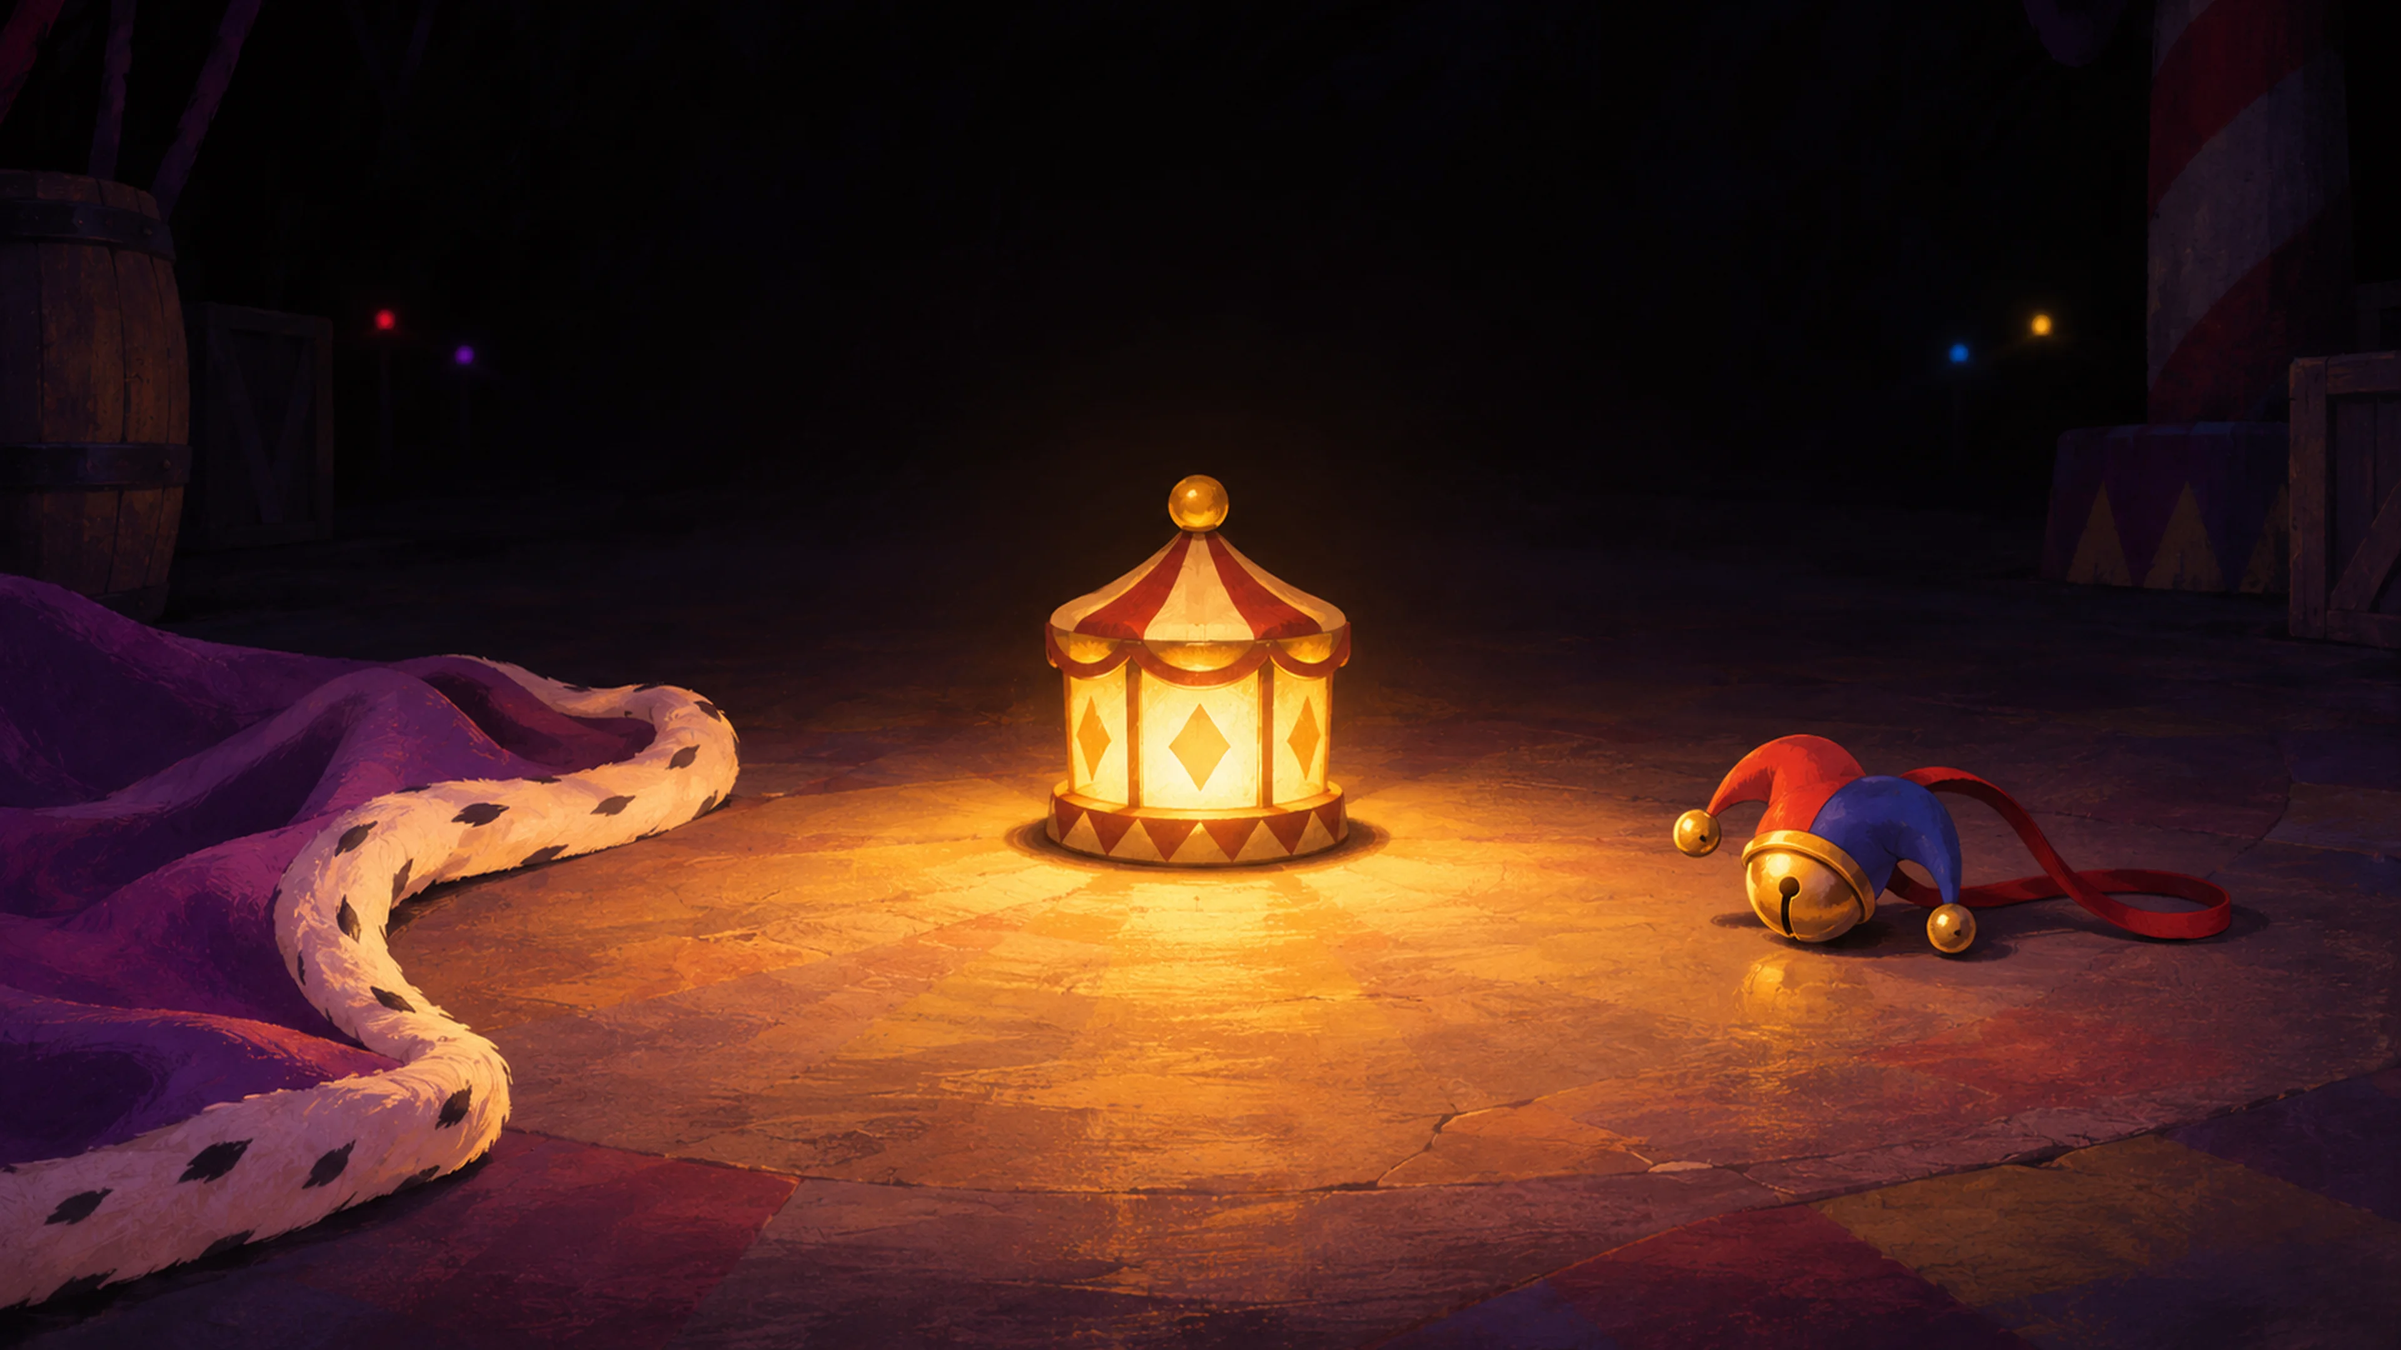
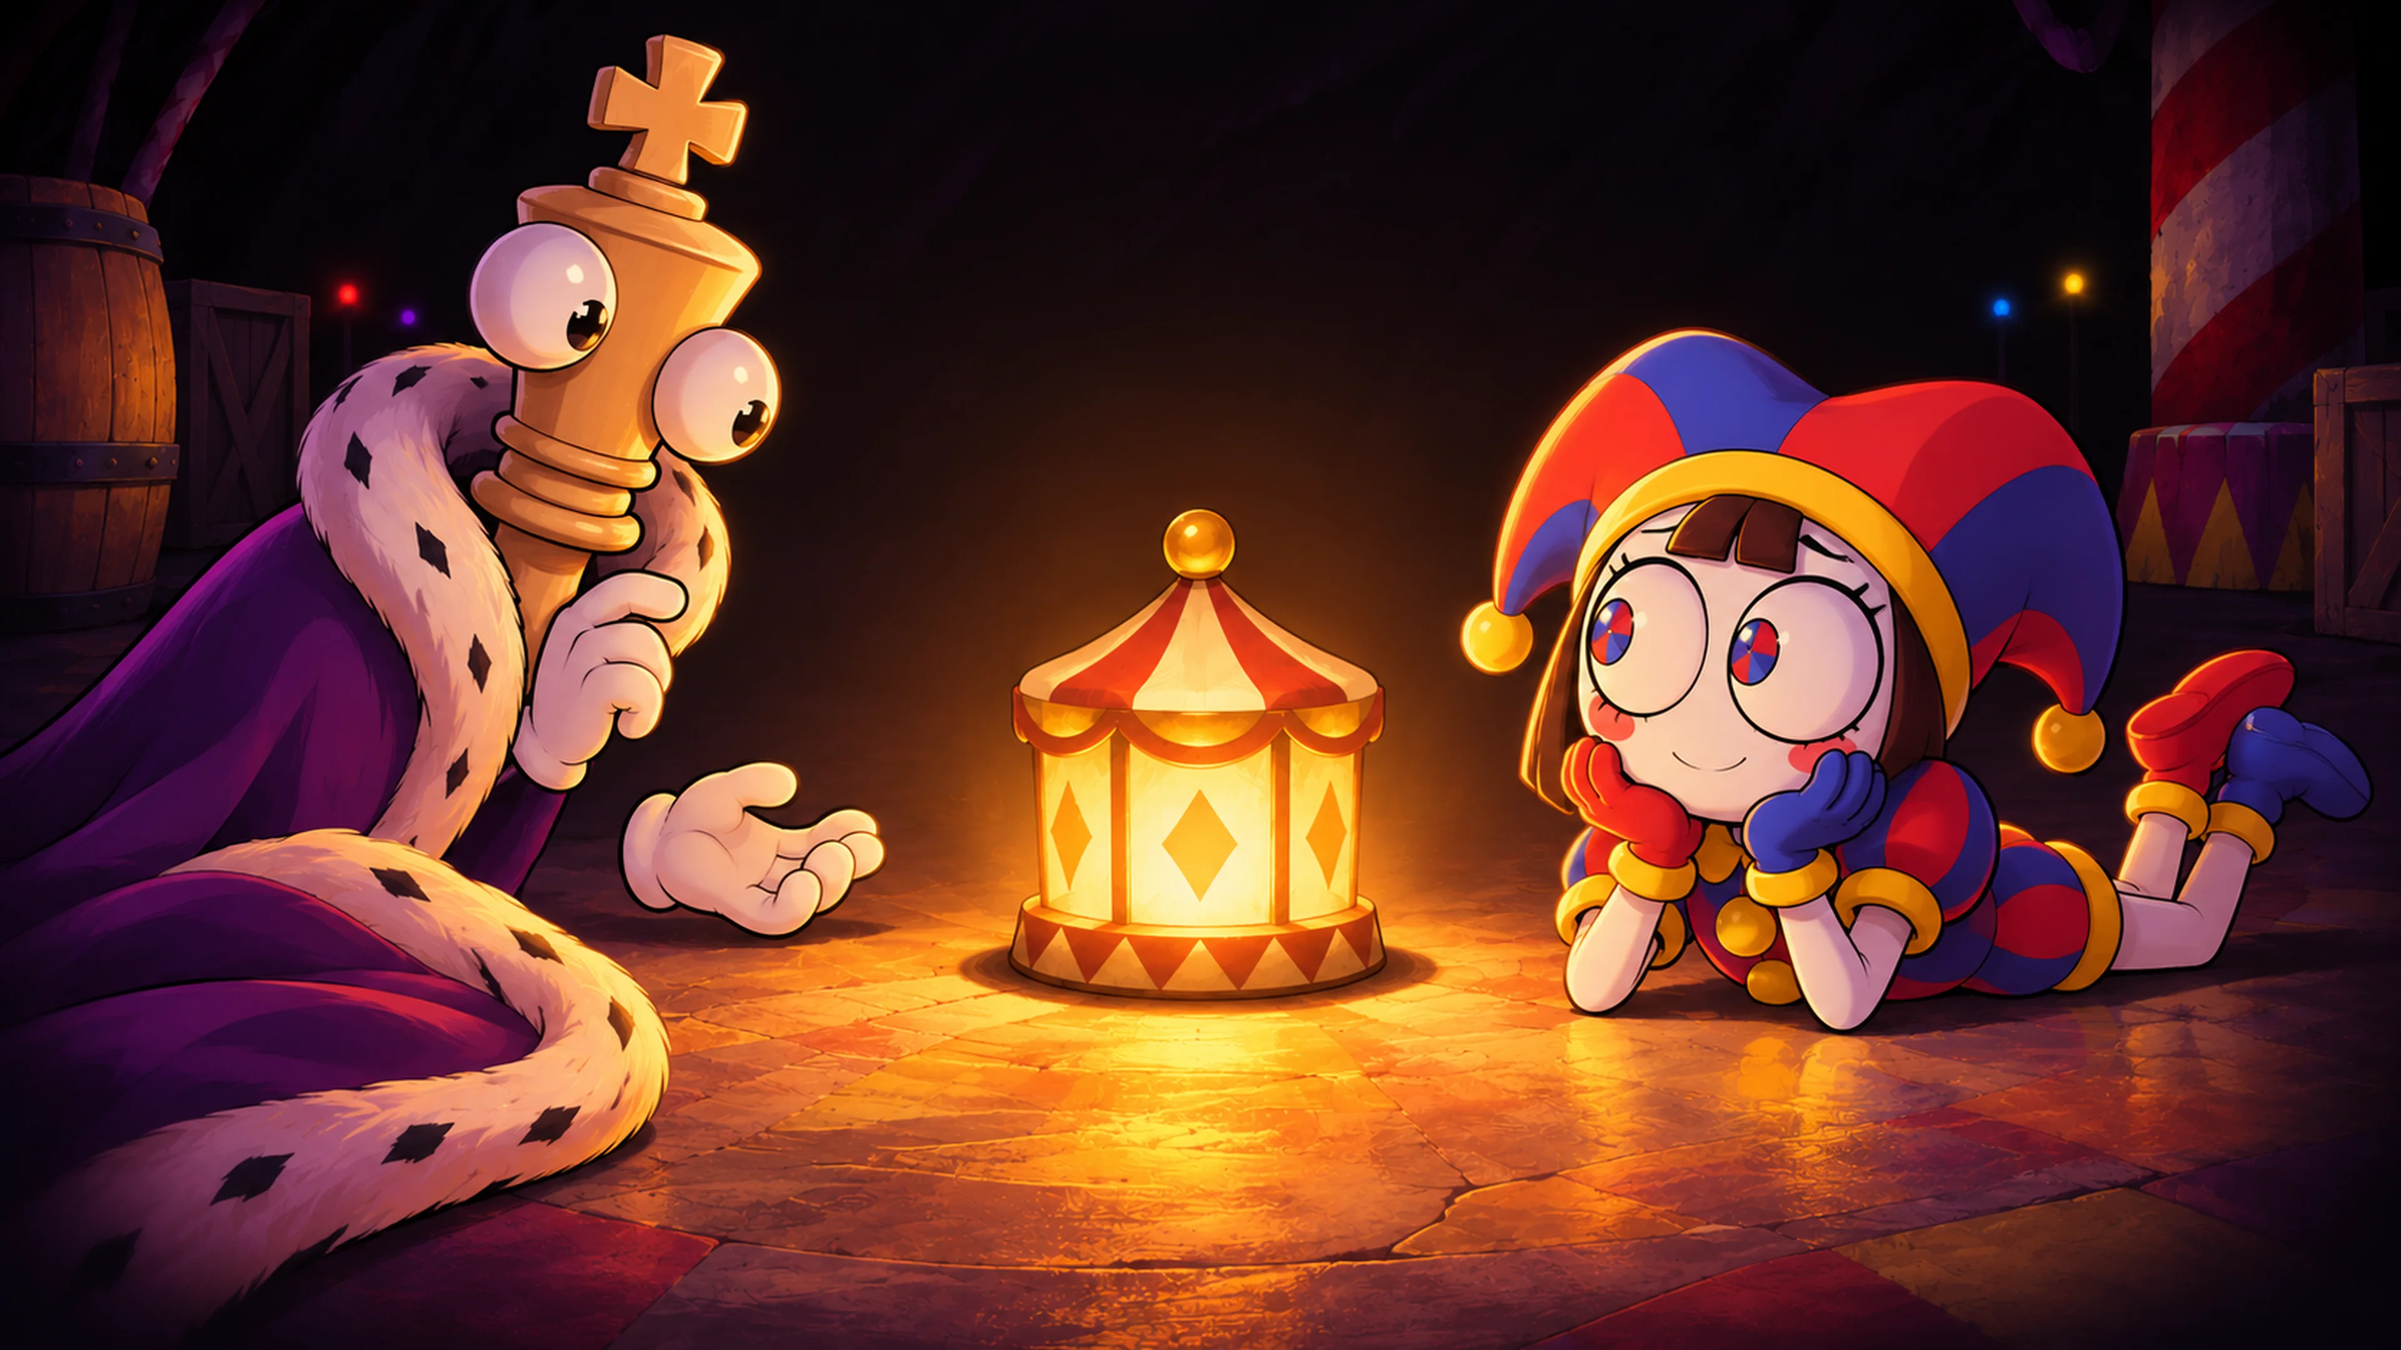
Finaliser les 168 illustrations, le cache hors ligne et la galerie vérifiée

diff --git a/docs/COMBAT_ILLUSTRATIONS.md b/docs/COMBAT_ILLUSTRATIONS.md
@@ -1,0 +1,40 @@
+# Digital Circus — Encore · Illustrations du mode Combat
+
+Le roster compte 14 combattants. Le lot du 18 novembre 2026 comprend **14 vues de sélection, 14 gardes de profil et 140 illustrations de campagne**. Chaque lien ouvre un fichier WebP individuel. Les numéros suivent l’ordre du lecteur de campagne.
+
+Aperçus du roster complet. [Vues de sélection](images/encore-selection.webp) · [Gardes de combat](images/encore-stance.webp) · [Pomni contre Jax en jeu](images/encore-duel.webp) · [Prologue de Pomni dans le lecteur](images/encore-campagne.webp)
+
+| Combattant | Campagne | Sélection | Garde | Prologue | Chapitres | Épilogue |
+| --- | --- | --- | --- | --- | --- | --- |
+| **Pomni** | Une sortie à sa mesure | [Sélection](../assets/encore/selection/pomni.webp) | [Garde](../assets/encore/stance/pomni.webp) | [1](../assets/encore/campaign/pomni/pomni-prologue-1.webp) · [2](../assets/encore/campaign/pomni/pomni-prologue-2.webp) · [3](../assets/encore/campaign/pomni/pomni-prologue-3.webp) | [1](../assets/encore/campaign/pomni/pomni-chapter-1.webp) · [2](../assets/encore/campaign/pomni/pomni-chapter-2.webp) · [3](../assets/encore/campaign/pomni/pomni-chapter-3.webp) · [4](../assets/encore/campaign/pomni/pomni-chapter-4.webp) | [1](../assets/encore/campaign/pomni/pomni-epilogue-1.webp) · [2](../assets/encore/campaign/pomni/pomni-epilogue-2.webp) · [3](../assets/encore/campaign/pomni/pomni-epilogue-3.webp) |
+| **Jax** | Le gag de trop | [Sélection](../assets/encore/selection/jax.webp) | [Garde](../assets/encore/stance/jax.webp) | [1](../assets/encore/campaign/jax/jax-prologue-1.webp) · [2](../assets/encore/campaign/jax/jax-prologue-2.webp) · [3](../assets/encore/campaign/jax/jax-prologue-3.webp) | [1](../assets/encore/campaign/jax/jax-chapter-1.webp) · [2](../assets/encore/campaign/jax/jax-chapter-2.webp) · [3](../assets/encore/campaign/jax/jax-chapter-3.webp) · [4](../assets/encore/campaign/jax/jax-chapter-4.webp) | [1](../assets/encore/campaign/jax/jax-epilogue-1.webp) · [2](../assets/encore/campaign/jax/jax-epilogue-2.webp) · [3](../assets/encore/campaign/jax/jax-epilogue-3.webp) |
+| **Ragatha** | Le fil du spectacle | [Sélection](../assets/encore/selection/ragatha.webp) | [Garde](../assets/encore/stance/ragatha.webp) | [1](../assets/encore/campaign/ragatha/ragatha-prologue-1.webp) · [2](../assets/encore/campaign/ragatha/ragatha-prologue-2.webp) · [3](../assets/encore/campaign/ragatha/ragatha-prologue-3.webp) | [1](../assets/encore/campaign/ragatha/ragatha-chapter-1.webp) · [2](../assets/encore/campaign/ragatha/ragatha-chapter-2.webp) · [3](../assets/encore/campaign/ragatha/ragatha-chapter-3.webp) · [4](../assets/encore/campaign/ragatha/ragatha-chapter-4.webp) | [1](../assets/encore/campaign/ragatha/ragatha-epilogue-1.webp) · [2](../assets/encore/campaign/ragatha/ragatha-epilogue-2.webp) · [3](../assets/encore/campaign/ragatha/ragatha-epilogue-3.webp) |
+| **Gangle** | Derrière le masque | [Sélection](../assets/encore/selection/gangle.webp) | [Garde](../assets/encore/stance/gangle.webp) | [1](../assets/encore/campaign/gangle/gangle-prologue-1.webp) · [2](../assets/encore/campaign/gangle/gangle-prologue-2.webp) · [3](../assets/encore/campaign/gangle/gangle-prologue-3.webp) | [1](../assets/encore/campaign/gangle/gangle-chapter-1.webp) · [2](../assets/encore/campaign/gangle/gangle-chapter-2.webp) · [3](../assets/encore/campaign/gangle/gangle-chapter-3.webp) · [4](../assets/encore/campaign/gangle/gangle-chapter-4.webp) | [1](../assets/encore/campaign/gangle/gangle-epilogue-1.webp) · [2](../assets/encore/campaign/gangle/gangle-epilogue-2.webp) · [3](../assets/encore/campaign/gangle/gangle-epilogue-3.webp) |
+| **Zooble** | À prendre ou à laisser | [Sélection](../assets/encore/selection/zooble.webp) | [Garde](../assets/encore/stance/zooble.webp) | [1](../assets/encore/campaign/zooble/zooble-prologue-1.webp) · [2](../assets/encore/campaign/zooble/zooble-prologue-2.webp) · [3](../assets/encore/campaign/zooble/zooble-prologue-3.webp) | [1](../assets/encore/campaign/zooble/zooble-chapter-1.webp) · [2](../assets/encore/campaign/zooble/zooble-chapter-2.webp) · [3](../assets/encore/campaign/zooble/zooble-chapter-3.webp) · [4](../assets/encore/campaign/zooble/zooble-chapter-4.webp) | [1](../assets/encore/campaign/zooble/zooble-epilogue-1.webp) · [2](../assets/encore/campaign/zooble/zooble-epilogue-2.webp) · [3](../assets/encore/campaign/zooble/zooble-epilogue-3.webp) |
+| **Kinger** | La ronde des petites lumières | [Sélection](../assets/encore/selection/kinger.webp) | [Garde](../assets/encore/stance/kinger.webp) | [1](../assets/encore/campaign/kinger/kinger-prologue-1.webp) · [2](../assets/encore/campaign/kinger/kinger-prologue-2.webp) · [3](../assets/encore/campaign/kinger/kinger-prologue-3.webp) | [1](../assets/encore/campaign/kinger/kinger-chapter-1.webp) · [2](../assets/encore/campaign/kinger/kinger-chapter-2.webp) · [3](../assets/encore/campaign/kinger/kinger-chapter-3.webp) · [4](../assets/encore/campaign/kinger/kinger-chapter-4.webp) | [1](../assets/encore/campaign/kinger/kinger-epilogue-1.webp) · [2](../assets/encore/campaign/kinger/kinger-epilogue-2.webp) · [3](../assets/encore/campaign/kinger/kinger-epilogue-3.webp) |
+| **Caine** | L’imprévu au programme | [Sélection](../assets/encore/selection/caine.webp) | [Garde](../assets/encore/stance/caine.webp) | [1](../assets/encore/campaign/caine/caine-prologue-1.webp) · [2](../assets/encore/campaign/caine/caine-prologue-2.webp) · [3](../assets/encore/campaign/caine/caine-prologue-3.webp) | [1](../assets/encore/campaign/caine/caine-chapter-1.webp) · [2](../assets/encore/campaign/caine/caine-chapter-2.webp) · [3](../assets/encore/campaign/caine/caine-chapter-3.webp) · [4](../assets/encore/campaign/caine/caine-chapter-4.webp) | [1](../assets/encore/campaign/caine/caine-epilogue-1.webp) · [2](../assets/encore/campaign/caine/caine-epilogue-2.webp) · [3](../assets/encore/campaign/caine/caine-epilogue-3.webp) |
+| **Bubble** | Service impeccable | [Sélection](../assets/encore/selection/bubble.webp) | [Garde](../assets/encore/stance/bubble.webp) | [1](../assets/encore/campaign/bubble/bubble-prologue-1.webp) · [2](../assets/encore/campaign/bubble/bubble-prologue-2.webp) · [3](../assets/encore/campaign/bubble/bubble-prologue-3.webp) | [1](../assets/encore/campaign/bubble/bubble-chapter-1.webp) · [2](../assets/encore/campaign/bubble/bubble-chapter-2.webp) · [3](../assets/encore/campaign/bubble/bubble-chapter-3.webp) · [4](../assets/encore/campaign/bubble/bubble-chapter-4.webp) | [1](../assets/encore/campaign/bubble/bubble-epilogue-1.webp) · [2](../assets/encore/campaign/bubble/bubble-epilogue-2.webp) · [3](../assets/encore/campaign/bubble/bubble-epilogue-3.webp) |
+| **Gummigoo** | Une route à partager | [Sélection](../assets/encore/selection/gummigoo.webp) | [Garde](../assets/encore/stance/gummigoo.webp) | [1](../assets/encore/campaign/gummigoo/gummigoo-prologue-1.webp) · [2](../assets/encore/campaign/gummigoo/gummigoo-prologue-2.webp) · [3](../assets/encore/campaign/gummigoo/gummigoo-prologue-3.webp) | [1](../assets/encore/campaign/gummigoo/gummigoo-chapter-1.webp) · [2](../assets/encore/campaign/gummigoo/gummigoo-chapter-2.webp) · [3](../assets/encore/campaign/gummigoo/gummigoo-chapter-3.webp) · [4](../assets/encore/campaign/gummigoo/gummigoo-chapter-4.webp) | [1](../assets/encore/campaign/gummigoo/gummigoo-epilogue-1.webp) · [2](../assets/encore/campaign/gummigoo/gummigoo-epilogue-2.webp) · [3](../assets/encore/campaign/gummigoo/gummigoo-epilogue-3.webp) |
+| **Loolilalu** | La fête des quatre passages | [Sélection](../assets/encore/selection/loolilalu.webp) | [Garde](../assets/encore/stance/loolilalu.webp) | [1](../assets/encore/campaign/loolilalu/loolilalu-prologue-1.webp) · [2](../assets/encore/campaign/loolilalu/loolilalu-prologue-2.webp) · [3](../assets/encore/campaign/loolilalu/loolilalu-prologue-3.webp) | [1](../assets/encore/campaign/loolilalu/loolilalu-chapter-1.webp) · [2](../assets/encore/campaign/loolilalu/loolilalu-chapter-2.webp) · [3](../assets/encore/campaign/loolilalu/loolilalu-chapter-3.webp) · [4](../assets/encore/campaign/loolilalu/loolilalu-chapter-4.webp) | [1](../assets/encore/campaign/loolilalu/loolilalu-epilogue-1.webp) · [2](../assets/encore/campaign/loolilalu/loolilalu-epilogue-2.webp) · [3](../assets/encore/campaign/loolilalu/loolilalu-epilogue-3.webp) |
+| **Gloink Queen** | Le trésor du nid | [Sélection](../assets/encore/selection/gloinkqueen.webp) | [Garde](../assets/encore/stance/gloinkqueen.webp) | [1](../assets/encore/campaign/gloinkqueen/gloinkqueen-prologue-1.webp) · [2](../assets/encore/campaign/gloinkqueen/gloinkqueen-prologue-2.webp) · [3](../assets/encore/campaign/gloinkqueen/gloinkqueen-prologue-3.webp) | [1](../assets/encore/campaign/gloinkqueen/gloinkqueen-chapter-1.webp) · [2](../assets/encore/campaign/gloinkqueen/gloinkqueen-chapter-2.webp) · [3](../assets/encore/campaign/gloinkqueen/gloinkqueen-chapter-3.webp) · [4](../assets/encore/campaign/gloinkqueen/gloinkqueen-chapter-4.webp) | [1](../assets/encore/campaign/gloinkqueen/gloinkqueen-epilogue-1.webp) · [2](../assets/encore/campaign/gloinkqueen/gloinkqueen-epilogue-2.webp) · [3](../assets/encore/campaign/gloinkqueen/gloinkqueen-epilogue-3.webp) |
+| **The Fudge** | Une place au banquet | [Sélection](../assets/encore/selection/fudge.webp) | [Garde](../assets/encore/stance/fudge.webp) | [1](../assets/encore/campaign/fudge/fudge-prologue-1.webp) · [2](../assets/encore/campaign/fudge/fudge-prologue-2.webp) · [3](../assets/encore/campaign/fudge/fudge-prologue-3.webp) | [1](../assets/encore/campaign/fudge/fudge-chapter-1.webp) · [2](../assets/encore/campaign/fudge/fudge-chapter-2.webp) · [3](../assets/encore/campaign/fudge/fudge-chapter-3.webp) · [4](../assets/encore/campaign/fudge/fudge-chapter-4.webp) | [1](../assets/encore/campaign/fudge/fudge-epilogue-1.webp) · [2](../assets/encore/campaign/fudge/fudge-epilogue-2.webp) · [3](../assets/encore/campaign/fudge/fudge-epilogue-3.webp) |
+| **Kaufmo — abstraction** | L’écho sous le rideau | [Sélection](../assets/encore/selection/abstractedkaufmo.webp) | [Garde](../assets/encore/stance/abstractedkaufmo.webp) | [1](../assets/encore/campaign/abstractedkaufmo/abstractedkaufmo-prologue-1.webp) · [2](../assets/encore/campaign/abstractedkaufmo/abstractedkaufmo-prologue-2.webp) · [3](../assets/encore/campaign/abstractedkaufmo/abstractedkaufmo-prologue-3.webp) | [1](../assets/encore/campaign/abstractedkaufmo/abstractedkaufmo-chapter-1.webp) · [2](../assets/encore/campaign/abstractedkaufmo/abstractedkaufmo-chapter-2.webp) · [3](../assets/encore/campaign/abstractedkaufmo/abstractedkaufmo-chapter-3.webp) · [4](../assets/encore/campaign/abstractedkaufmo/abstractedkaufmo-chapter-4.webp) | [1](../assets/encore/campaign/abstractedkaufmo/abstractedkaufmo-epilogue-1.webp) · [2](../assets/encore/campaign/abstractedkaufmo/abstractedkaufmo-epilogue-2.webp) · [3](../assets/encore/campaign/abstractedkaufmo/abstractedkaufmo-epilogue-3.webp) |
+| **Baron Mildenhall** | Le dernier invité du manoir | [Sélection](../assets/encore/selection/baronmildenhall.webp) | [Garde](../assets/encore/stance/baronmildenhall.webp) | [1](../assets/encore/campaign/baronmildenhall/baronmildenhall-prologue-1.webp) · [2](../assets/encore/campaign/baronmildenhall/baronmildenhall-prologue-2.webp) · [3](../assets/encore/campaign/baronmildenhall/baronmildenhall-prologue-3.webp) | [1](../assets/encore/campaign/baronmildenhall/baronmildenhall-chapter-1.webp) · [2](../assets/encore/campaign/baronmildenhall/baronmildenhall-chapter-2.webp) · [3](../assets/encore/campaign/baronmildenhall/baronmildenhall-chapter-3.webp) · [4](../assets/encore/campaign/baronmildenhall/baronmildenhall-chapter-4.webp) | [1](../assets/encore/campaign/baronmildenhall/baronmildenhall-epilogue-1.webp) · [2](../assets/encore/campaign/baronmildenhall/baronmildenhall-epilogue-2.webp) · [3](../assets/encore/campaign/baronmildenhall/baronmildenhall-epilogue-3.webp) |
+
+## Rendu en jeu
+
+Les vues de sélection apparaissent dans le roster. La garde de profil accompagne l’attente et la défense debout dans la tenue principale. Le moteur retourne le dessin pour le second côté. Les déplacements, attaques, réactions, cinématiques de fin de duel et variantes de costumes continuent à utiliser leurs poses existantes.
+
+Le lecteur associe chaque image à l’identifiant de son tableau. Certains plans rapprochés sur un objet ou un lieu intègrent les réactions illustrées des personnages qui prennent part à la scène. Ce lot illustre 42 tableaux de prologue, 56 présentations de chapitre et 42 tableaux d’épilogue. CainOS et la version autonome partagent ce lecteur, le moteur de combat et le pack disponible dans les réglages hors ligne. [Scénarios](../combat/stories.mjs) · [Inventaire de distribution](../combat/offline-manifest.mjs)
+
+## Format et références
+
+Les scènes sont livrées en 3840 × 2160. Les sprites détourés conservent leur transparence et leurs proportions, avec 2160 pixels sur le grand côté pour treize combattants et 3840 pixels de largeur pour la Gloink Queen. Les fichiers de livraison sont redimensionnés à partir des dessins générés. Le combat utilise son canevas logique de 1280 × 720 et charge ses textures à l’échelle d’affichage. Les portraits sont chargés lorsqu’ils deviennent visibles. Le lecteur de campagne décode le tableau courant.
+
+Les personnages reprennent les références visuelles du projet. Les gardes et les mises en scène sont des créations de fan-game, écrites pour les routes d’Encore. Le registre détaille les silhouettes observées, les sources et les comparaisons encore ouvertes, notamment pour les personnages documentés uniquement par les archives du jeu. La correspondance canonique 1:1 reste à valider individuellement. [Registre de fidélité](../combat/fidelity.mjs)
+
+## Vérification de la livraison
+
+Les 168 nouveaux WebP représentent 70,9 Mio. La version de la distribution hors ligne est `0.7.0-024f25099e52`. Son pack de 212 images, anciennes et nouvelles, porte l’empreinte `1f94e5685d894cdb`.
+
+Sur la distribution autonome, Chromium a affiché 14 portraits dans les cartes du roster, rendu les 14 gardes et affiché les 140 tableaux depuis leurs identifiants de campagne. Les contrôles ont vérifié l’affichage des fichiers, la correspondance des panneaux et le chargement du duel. Le détail des fenêtres d’attaque et des collisions reste régi par la simulation. [Rendu du combat](../combat/render.mjs) · [Lecteur des tableaux](../combat/story-presentation.mjs)
